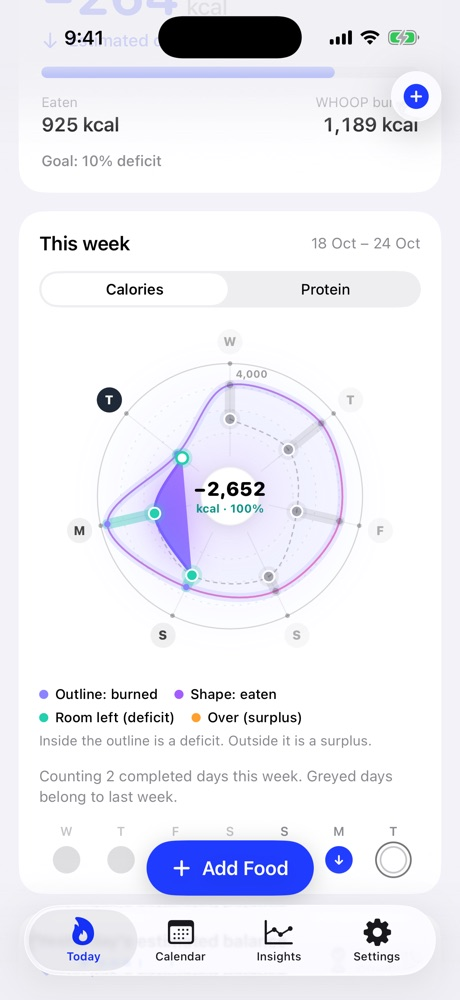
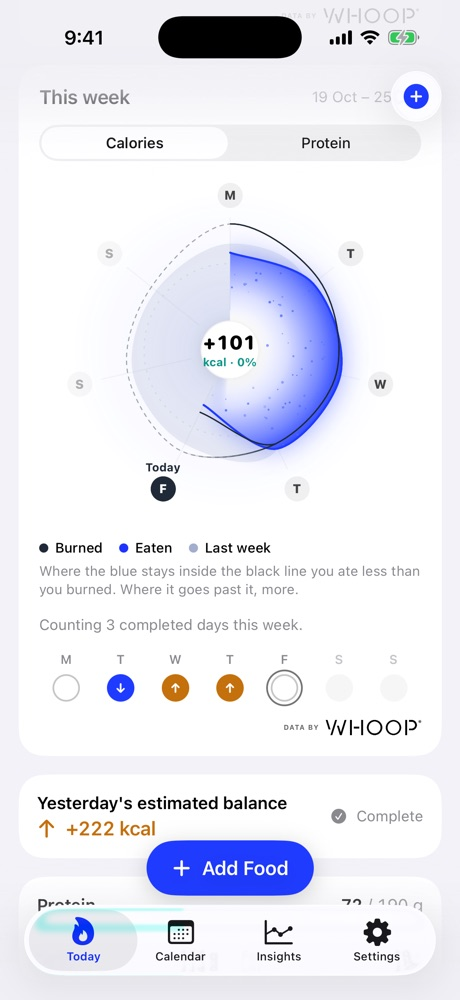
Refresh screenshots, add WHOOP attribution

diff --git a/index.html b/index.html
@@ -57,6 +57,7 @@
   <section class="intro wrap">
     <h2 class="reveal">Your calories burned, <span class="blue">pulled in automatically.</span></h2>
     <p class="reveal sub">WHOOP already knows how much energy you spend. Joul reads it, so you only log what you eat. The result is one clear number for the day, and a calendar that shows the pattern.</p>
+    <p class="reveal data-by"><span>Data by</span><img src="assets/whoop-logo-black.svg" alt="WHOOP" width="110" height="18"></p>
   </section>
 
   <section class="showcase" aria-label="The app">

diff --git a/style.css b/style.css
@@ -191,3 +191,7 @@ details p{margin:12px 0 0;color:var(--mute);font-weight:600}
 .iphone::before{left:-3px;top:18%;height:7%;box-shadow:0 clamp(24px,5vw,52px) 0 #2a2c31,0 clamp(54px,10vw,104px) 0 #2a2c31}
 .iphone::after{right:-3px;top:27%;height:12%}
 .shots-note{margin-top:28px}
+
+.data-by{display:flex;align-items:center;justify-content:center;gap:8px;margin:20px 0 0}
+.data-by span{font-size:.62rem;font-weight:900;letter-spacing:.08em;text-transform:uppercase}
+.data-by img{display:block;width:110px;height:auto}
